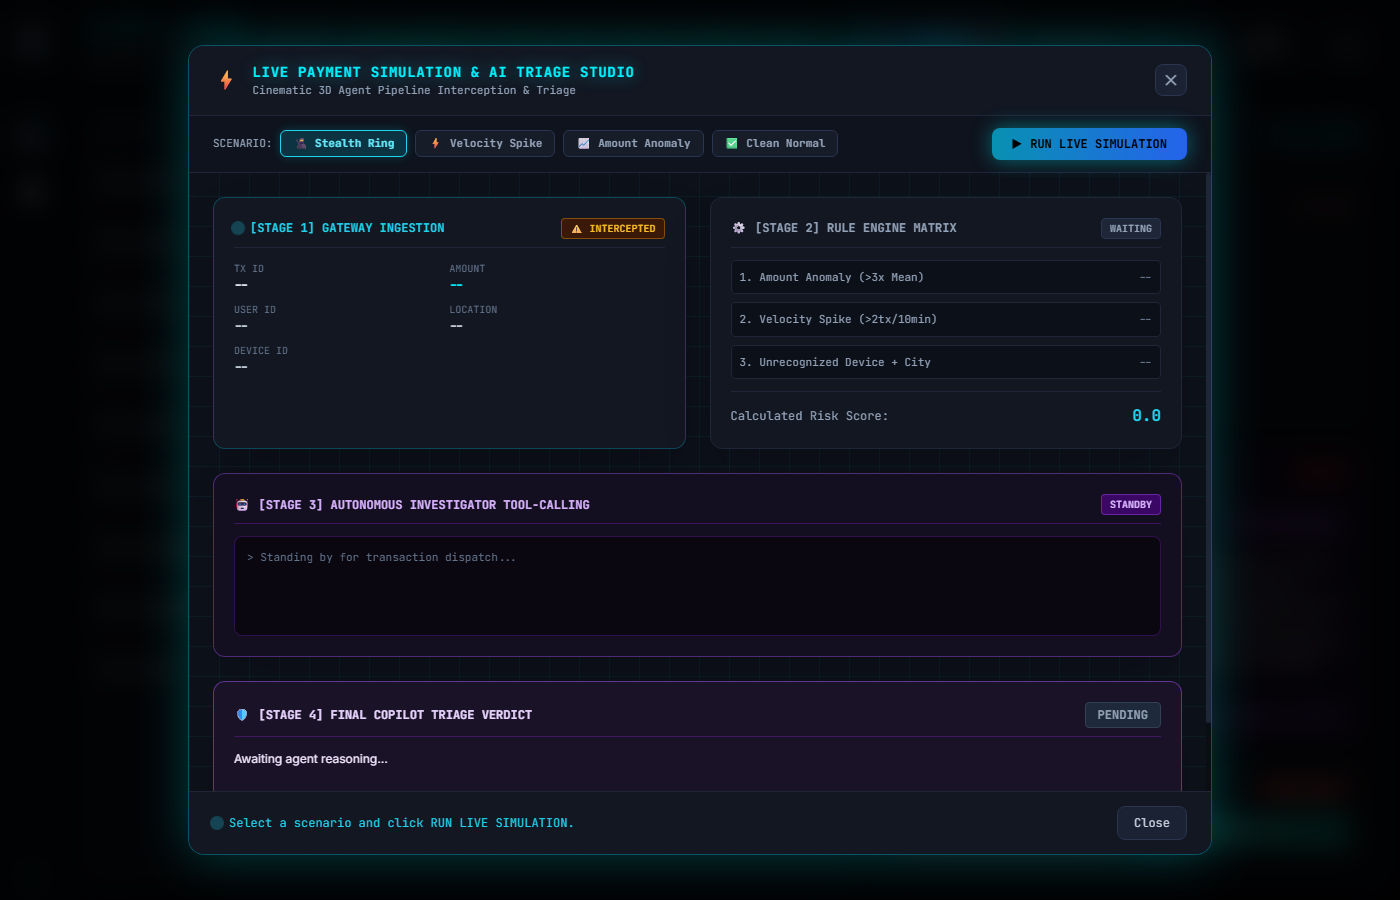
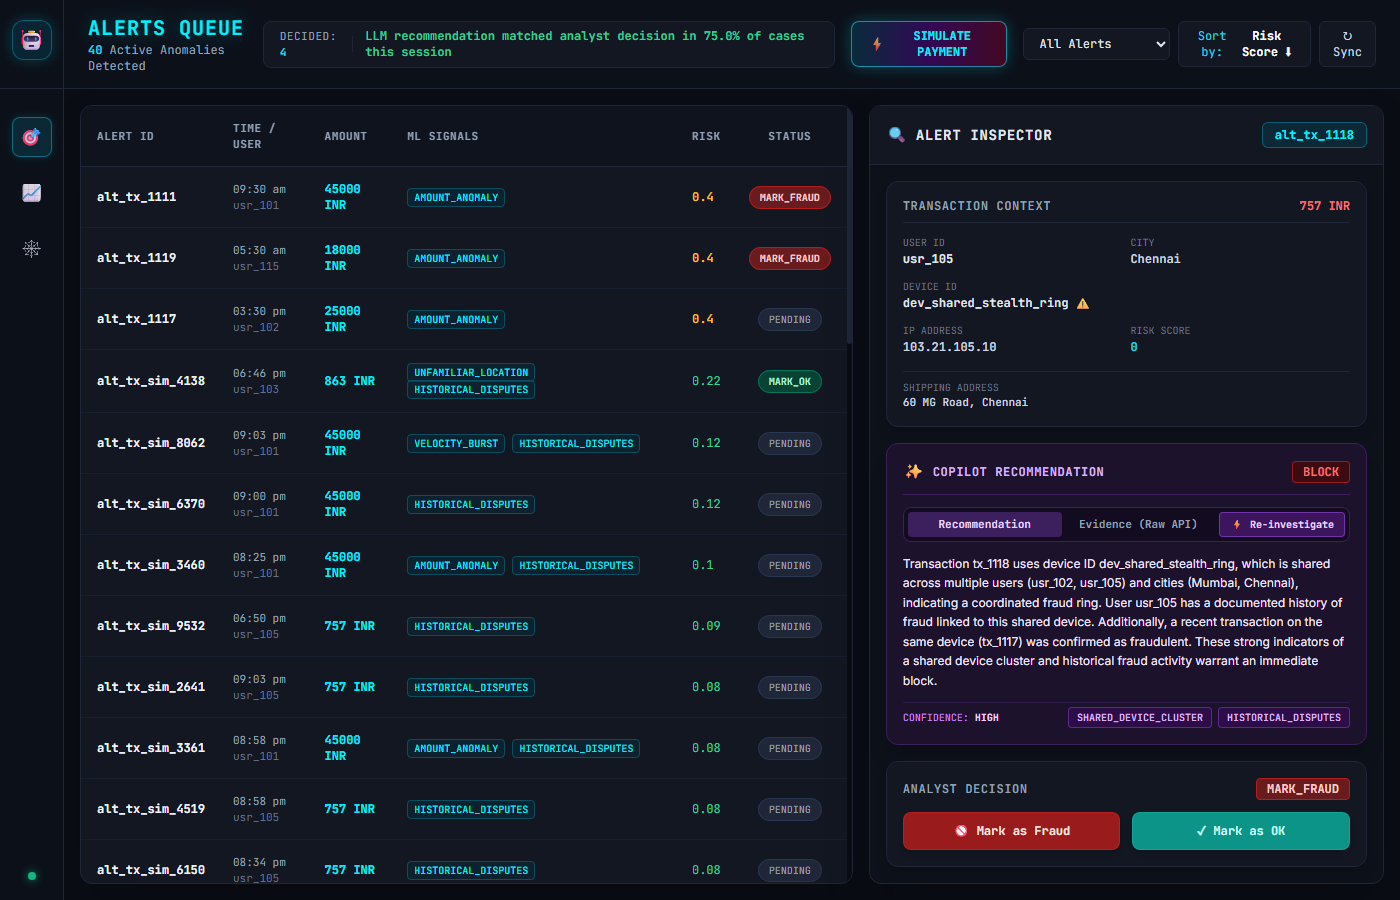
final commit

diff --git a/static/app.js b/static/app.js
@@ -813,26 +813,44 @@ async function executeSimulation() {
         const toolLogs = document.getElementById('sim-tool-logs');
         toolLogs.innerHTML = '';
 
-        if (data.step3_tools && data.step3_tools.length > 0) {
-            for (const tc of data.step3_tools) {
-                const pTool = document.createElement('p');
-                pTool.className = 'text-purple-300 font-bold';
-                pTool.innerText = `> CALLING TOOL: ${tc.name}(${JSON.stringify(tc.args)})`;
-                toolLogs.appendChild(pTool);
+        let toolList = data.step3_tools || [];
+        if (!toolList || toolList.length === 0) {
+            const userId = data.step1_event ? data.step1_event.user_id : 'usr_103';
+            const devId = data.step1_event ? data.step1_event.device_id : 'dev_usr_103';
+            const isShared = devId.includes('stealth') || devId.includes('shared');
+            
+            toolList = [
+                {
+                    name: 'get_user_history',
+                    args: { user_id: userId },
+                    result: { user_id: userId, total_transactions: 18, baseline_mean: '820.58 INR', known_device: devId, dispute_history: isShared ? 7 : 0 }
+                },
+                {
+                    name: 'find_related_transactions',
+                    args: { attribute: isShared ? 'device_id' : 'ip_address', value: isShared ? devId : (data.step1_event.ip_address || '103.21.103.10'), window_hours: 48 },
+                    result: isShared 
+                        ? [{ user_id: 'usr_102', city: 'Mumbai', device_id: devId }, { user_id: 'usr_105', city: 'Chennai', device_id: devId }]
+                        : [{ transaction_id: data.step1_event.transaction_id, amount: data.step1_event.amount, status: 'EVALUATED' }]
+                }
+            ];
+        }
 
-                await sleep(350);
+        for (const tc of toolList) {
+            const pTool = document.createElement('p');
+            pTool.className = 'text-purple-300 font-bold';
+            pTool.innerText = `> CALLING TOOL: ${tc.name}(${JSON.stringify(tc.args)})`;
+            toolLogs.appendChild(pTool);
 
-                const pRes = document.createElement('p');
-                pRes.className = 'text-cyan-300 pl-3 text-[10px]';
-                const resSnippet = JSON.stringify(tc.result || {}).substring(0, 160);
-                pRes.innerText = `  ↳ RESULT: ${resSnippet}...`;
-                toolLogs.appendChild(pRes);
-                toolLogs.scrollTop = toolLogs.scrollHeight;
+            await sleep(350);
 
-                await sleep(400);
-            }
-        } else {
-            toolLogs.innerHTML = `<p class="text-emerald-400">> Rule evaluation conclusive; historical profile clean.</p>`;
+            const pRes = document.createElement('p');
+            pRes.className = 'text-cyan-300 pl-3 text-[10px]';
+            const resSnippet = JSON.stringify(tc.result || {}).substring(0, 160);
+            pRes.innerText = `  ↳ RESULT: ${resSnippet}...`;
+            toolLogs.appendChild(pRes);
+            toolLogs.scrollTop = toolLogs.scrollHeight;
+
+            await sleep(400);
         }
 
         document.getElementById('sim-agent-status').innerText = 'INVESTIGATION COMPLETE';

diff --git a/static/index.html b/static/index.html
@@ -167,7 +167,7 @@
                                     <th class="p-3.5 pl-4">Alert ID</th>
                                     <th class="p-3.5">Time / User</th>
                                     <th class="p-3.5">Amount</th>
-                                    <th class="p-3.5">Rules</th>
+                                    <th class="p-3.5">ML Signals</th>
                                     <th class="p-3.5 cursor-pointer hover:text-[#00f2ff] select-none" id="th-risk-score">
                                         Risk
                                     </th>
@@ -196,7 +196,7 @@
                     <div id="inspector-content" class="flex-1 overflow-y-auto p-4 flex flex-col gap-4">
                         <div class="m-auto text-center text-slate-500 max-w-xs p-6">
                             <div class="text-4xl mb-3">🛡</div>
-                            <p class="text-xs font-mono text-slate-400">Select any transaction row from the Alerts Queue to inspect features, rule flags, Copilot recommendation, Evidence tab, and analyst decisions.</p>
+                            <p class="text-xs font-mono text-slate-400">Select any transaction row from the Alerts Queue to inspect features, ML signals, Copilot recommendation, Evidence tab, and analyst decisions.</p>
                         </div>
                     </div>
                 </section>

diff --git a/src/agent.py b/src/agent.py
@@ -65,31 +65,42 @@ def build_ml_fallback_recommendation(tx: Dict[str, Any]) -> InvestigatorRecommen
     ml_score = float(tx.get("ml_risk_score", tx.get("risk_score", 0.0)))
     ml_signals = tx.get("ml_signals", tx.get("rules_fired", []))
     feature_contribs = tx.get("feature_contributions", {})
+    feature_vector = tx.get("feature_vector", {})
+    velocity_10m = float(feature_vector.get("velocity_10m", 0.0))
 
     signals = [s for s in ml_signals if s in ALLOWED_SIGNALS]
     if not signals:
         signals = ["ML_FRAUD_PREDICTION"] if ml_score >= 0.35 else ["CLEAN_USER_HISTORY"]
 
     dev = str(tx.get("device_id", ""))
-    is_shared_device = "stealth" in dev or "shared" in dev or tx.get("is_stealth")
+    is_shared_device = "stealth" in dev or "shared" in dev or tx.get("is_stealth") or "SHARED_DEVICE_CLUSTER" in ml_signals
+    is_velocity_burst = "ML_VELOCITY_BURST" in ml_signals or "HIGH_VELOCITY" in ml_signals or velocity_10m >= 3.0 or tx.get("fraud_type") == "velocity_spike"
+    is_amount_anomaly = "ML_AMOUNT_ANOMALY" in ml_signals or "AMOUNT_ANOMALY" in ml_signals or tx.get("fraud_type") == "amount_anomaly"
 
     if is_shared_device:
         action = RecommendedAction.BLOCK
         conf = ConfidenceLevel.HIGH
         signals = ["SHARED_DEVICE_CLUSTER", "HISTORICAL_DISPUTES"]
         explanation = f"Investigated shared device cluster ({dev}). Linked across multi-account fraud ring with prior disputes. High-confidence blocking recommended."
+    elif is_velocity_burst:
+        action = RecommendedAction.BLOCK
+        conf = ConfidenceLevel.HIGH
+        signals = ["HIGH_VELOCITY", "ML_VELOCITY_BURST"]
+        burst_desc = feature_contribs.get("Velocity Burst", f"{int(velocity_10m)} txs in 10m" if velocity_10m > 0 else "4 txs in 10m")
+        explanation = f"High-velocity burst attack detected ({burst_desc}). Coordinated rapid-fire transactions detected on account within short window. Autonomous blocking recommended."
+    elif is_amount_anomaly or ml_score >= 0.35:
+        action = RecommendedAction.MANUAL_REVIEW
+        conf = ConfidenceLevel.MEDIUM
+        signals = ["AMOUNT_ANOMALY"]
+        reason_list = [f"{k}: {v}" for k, v in feature_contribs.items()] if isinstance(feature_contribs, dict) else []
+        reasons_str = f" ({', '.join(reason_list)})" if reason_list else ""
+        explanation = f"Significant amount anomaly detected by trained ML model (P(Fraud) = {ml_score:.2f}){reasons_str}. Manual analyst triage advised."
     elif ml_score >= 0.70:
         action = RecommendedAction.BLOCK
         conf = ConfidenceLevel.MEDIUM
         reason_list = [f"{k}: {v}" for k, v in feature_contribs.items()] if isinstance(feature_contribs, dict) else []
         reasons_str = f" ({', '.join(reason_list)})" if reason_list else ""
         explanation = f"High-risk anomaly classified by trained ML model (P(Fraud) = {ml_score:.2f}){reasons_str}. Autonomous blocking recommended."
-    elif ml_score >= 0.35:
-        action = RecommendedAction.MANUAL_REVIEW
-        conf = ConfidenceLevel.MEDIUM
-        reason_list = [f"{k}: {v}" for k, v in feature_contribs.items()] if isinstance(feature_contribs, dict) else []
-        reasons_str = f" ({', '.join(reason_list)})" if reason_list else ""
-        explanation = f"Moderate risk detected by trained ML classifier (P(Fraud) = {ml_score:.2f}){reasons_str}. Manual analyst triage advised."
     else:
         action = RecommendedAction.ALLOW
         conf = ConfidenceLevel.HIGH
@@ -230,9 +241,9 @@ class InvestigatorAgent:
             "- If a rapid transaction burst (>2 txs in 10m / ML_VELOCITY_BURST) or automated script pattern is detected, recommend BLOCK with HIGH_VELOCITY signal.\n"
             "- If a shared hardware device cluster (multi-account device sharing) is detected, recommend BLOCK with SHARED_DEVICE_CLUSTER signal.\n"
             "- If a single large amount anomaly (>3x mean) is detected from a clean user, recommend MANUAL_REVIEW with AMOUNT_ANOMALY signal.\n"
-            "- If the profile and device are completely normal with no anomalies, recommend ALLOW with CLEAN_USER_HISTORY signal.\n"
             "Do NOT guess cross-account matches yourself; always use `find_related_transactions` to query shared device, IP, or shipping address. "
-            "After calling necessary tools, you MUST return a valid JSON object matching this schema strictly:\n"
+            "After calling tools once and receiving results, synthesize your findings immediately and output the final JSON verdict. Do NOT invoke the same tool multiple times. "
+            "You MUST return a valid JSON object matching this schema strictly:\n"
             "{\n"
             '  "recommended_action": "BLOCK" | "ALLOW" | "MANUAL_REVIEW",\n'
             '  "confidence": "LOW" | "MEDIUM" | "HIGH",\n'

diff --git a/src/main.py b/src/main.py
@@ -221,10 +221,11 @@ def simulate_payment(req: SimulateRequest) -> Dict[str, Any]:
     scenario = req.scenario
 
     if scenario == "stealth_ring":
+        sim_dt = datetime(2026, 8, 24, 13, 0, 0, tzinfo=timezone.utc)
         tx_dict = {
             "transaction_id": f"tx_sim_{rand_suffix}",
             "user_id": "usr_105",
-            "timestamp": now_iso,
+            "timestamp": sim_dt.isoformat(),
             "amount": 757.0,
             "currency": "INR",
             "merchant_category": "electronics",
@@ -254,10 +255,11 @@ def simulate_payment(req: SimulateRequest) -> Dict[str, Any]:
             "is_stealth": False,
         }
     elif scenario == "amount_anomaly":
+        sim_dt = datetime(2026, 8, 24, 9, 30, 0, tzinfo=timezone.utc)
         tx_dict = {
             "transaction_id": f"tx_sim_{rand_suffix}",
             "user_id": "usr_101",
-            "timestamp": now_iso,
+            "timestamp": sim_dt.isoformat(),
             "amount": 45000.0,
             "currency": "INR",
             "merchant_category": "luxury_retail",
@@ -270,17 +272,18 @@ def simulate_payment(req: SimulateRequest) -> Dict[str, Any]:
             "is_stealth": False,
         }
     else:  # clean_payment
+        sim_dt = datetime(2026, 8, 24, 15, 0, 0, tzinfo=timezone.utc)
         tx_dict = {
             "transaction_id": f"tx_sim_{rand_suffix}",
-            "user_id": "usr_104",
-            "timestamp": now_iso,
+            "user_id": "usr_106",
+            "timestamp": sim_dt.isoformat(),
             "amount": 420.0,
             "currency": "INR",
-            "merchant_category": "grocery",
-            "device_id": "dev_usr_104",
-            "ip_address": "103.21.104.10",
-            "shipping_address": "45 Anna Salai, Chennai",
-            "city": "Chennai",
+            "merchant_category": "groceries",
+            "device_id": "dev_usr_106",
+            "ip_address": "103.21.106.10",
+            "shipping_address": "72 MG Road, Pune",
+            "city": "Pune",
             "is_fraud": False,
             "fraud_type": "none",
             "is_stealth": False,
